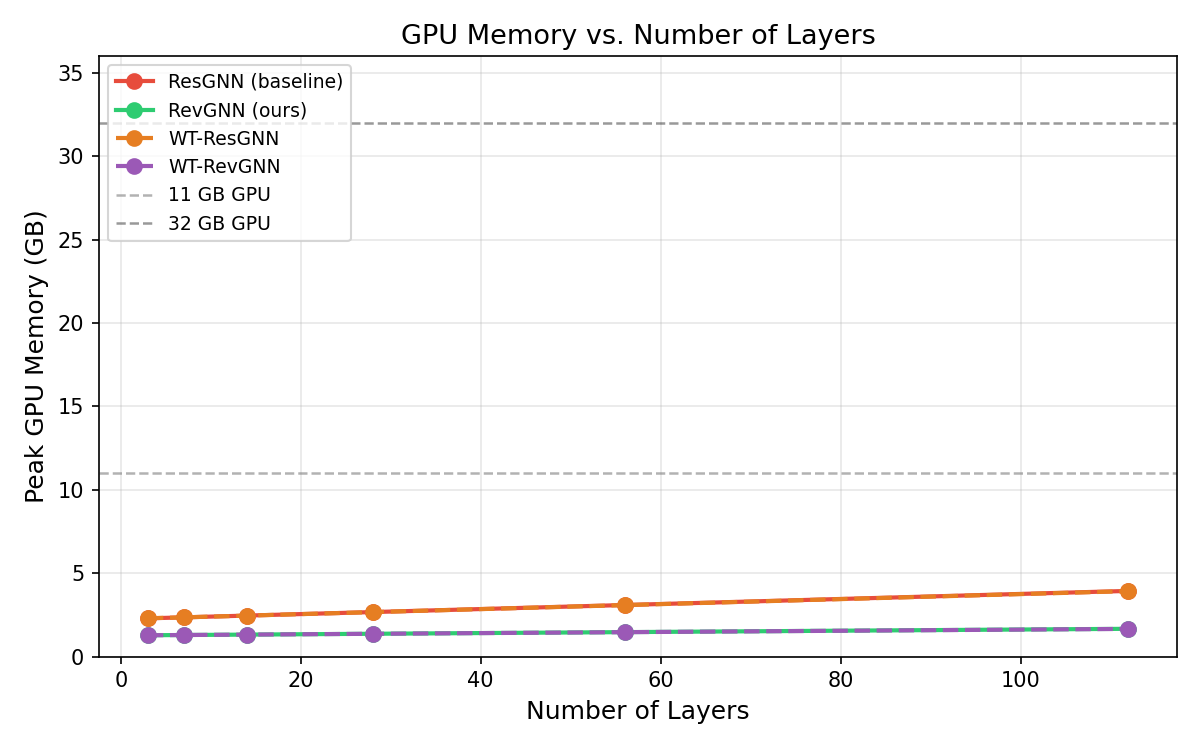
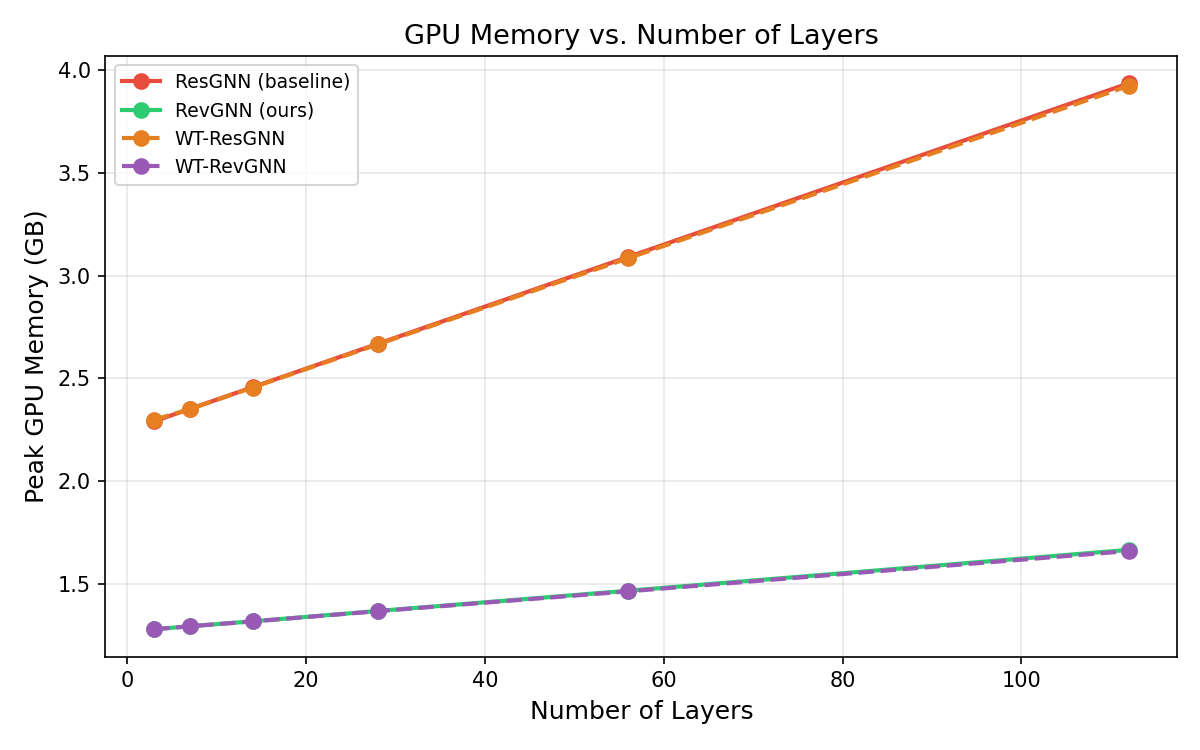
some more plots

diff --git a/Code/plot.py b/Code/plot.py
@@ -1,0 +1,40 @@
+import matplotlib.pyplot as plt
+import pandas as pd
+import argparse
+
+def main():
+    parser = argparse.ArgumentParser(description='Plot data from a CSV file.')
+    parser.add_argument("--hidden", type=int, default=128,
+                        help="Hidden channel size")
+    parser.add_argument("--model", default="revgnn",
+                        choices=["resgnn", "revgnn", "wt-resgnn", "wt-revgnn", "deq"],
+                        help="Model type")
+    parser.add_argument("--dataset", default="arxiv",
+                        choices=["arxiv", "proteins"],
+                        help="Dataset to use")
+    args = parser.parse_args()
+
+    model = args.model
+    dataset = args.dataset
+    hidden = args.hidden
+    save_path = f"plots/{model}_{hidden}ch_{dataset}_performance.png"
+    layer_sizes = [3, 7, 14, 28]
+    fig, ax = plt.subplots(figsize=(9, 5))
+    for layer in layer_sizes:
+        folder = f"results/{model}_{hidden}ch_{layer}L_{dataset}"
+        file = f"{folder}/metrics.csv"
+        df = pd.read_csv(file)
+        ax.plot(df["epoch"], df["val_score"], label=f"{layer} layers", linewidth=2)
+    ax.set_xlabel("Epoch")
+    ax.set_ylabel("Validation Score")
+    ax.set_title(f"Performance of {model} on {dataset}", fontsize=13)
+    ax.legend()
+    ax.grid(True, alpha=0.3)
+    plt.tight_layout()
+    plt.savefig(save_path, dpi=150)
+    plt.close()
+    print(f"  Saved → {save_path}")
+    # plt.show()
+
+if __name__ == "__main__":
+    main()

diff --git a/Code/experiments.py b/Code/experiments.py
@@ -519,15 +519,15 @@ def plot_memory_vs_layers(
                 ha="center", color=color, fontsize=8, fontweight="bold",
             )
 
-    ax.axhline(y=11, color="grey", linestyle="--", alpha=0.6, linewidth=1.2, label="11 GB GPU")
-    ax.axhline(y=32, color="black", linestyle="--", alpha=0.4, linewidth=1.2, label="32 GB GPU")
+    # ax.axhline(y=11, color="grey", linestyle="--", alpha=0.6, linewidth=1.2, label="11 GB GPU")
+    # ax.axhline(y=32, color="black", linestyle="--", alpha=0.4, linewidth=1.2, label="32 GB GPU")
 
     ax.set_xlabel("Number of Layers", fontsize=12)
     ax.set_ylabel("Peak GPU Memory (GB)", fontsize=12)
     ax.set_title(title, fontsize=13)
     ax.legend(fontsize=9, loc="upper left")
     ax.grid(True, alpha=0.3)
-    ax.set_ylim(0, 36)
+    # ax.set_ylim(0, 36)
 
     plt.tight_layout()
     plt.savefig(save_path, dpi=150)